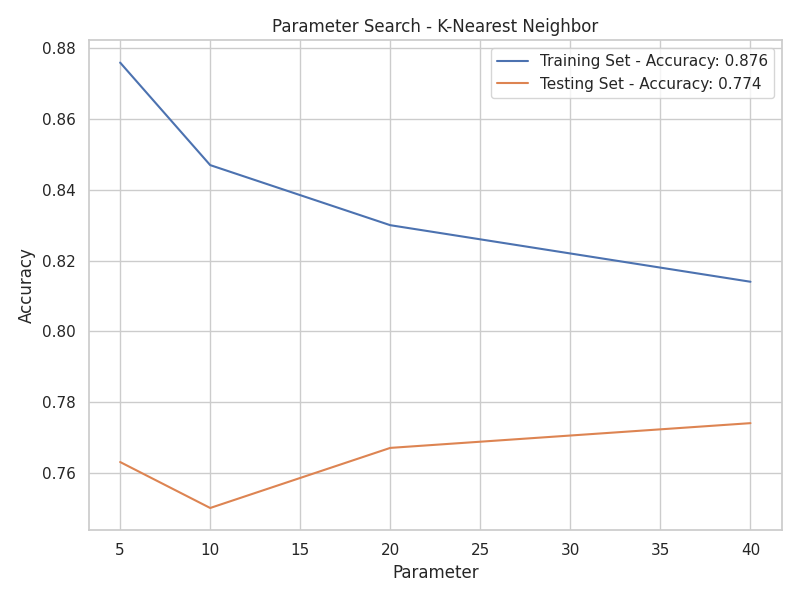
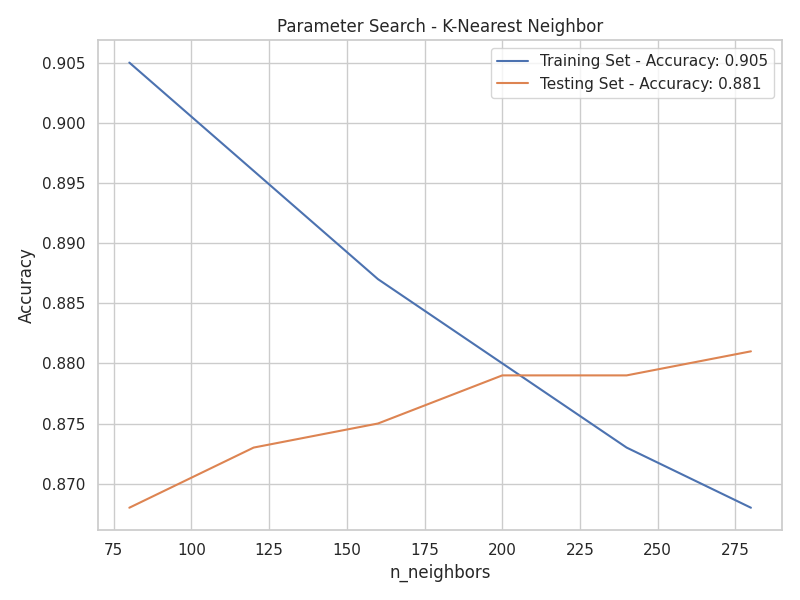
Finished implementation

diff --git a/src/run.py b/src/run.py
@@ -67,15 +67,19 @@ ds_train_X = ds_train_X.iloc[:,columns]
 # Plot selected correlation matrix
 plt.plot_heatmap(ds_train_X.corr(), 'features_selected', 'Correlation Matrix - Pearson', (8, 6))
 
-####################
-# Model Evaluation #
-####################
+# Scale features
+ds_train_X = StandardScaler().fit_transform(ds_train_X)
+ds_test_X = StandardScaler().fit_transform(ds_test_X)
+
+######################
+# Model Optimization #
+######################
 
 # Define algorithms
 algos = {
     'Naive Bayes': GaussianNB(),
     'Random Forest': RandomForestClassifier(),
-    'Logistic Regression': LogisticRegression(n_jobs=-1),
+    'Logistic Regression': LogisticRegression(n_jobs=-1, max_iter=5000, solver='lbfgs'),
     'Decision Tree Classifier': DecisionTreeClassifier(),
     'K-Nearest Neighbor': KNeighborsClassifier(n_jobs=-1)
 }
@@ -94,10 +98,10 @@ plt.plot_line(lines, 'defaults', 'Reveiver Operating Characteristic (ROC)', (8, 
 # Define params
 params = {
     #'Naive Bayes': {}, # No params for Naive Bayes
-    'Random Forest': {'max_depth': [1, 2, 3, 4]},
-    'Logistic Regression': {'C': [0.1, 0.1, 10, 100]},
-    'Decision Tree Classifier': {'max_depth': [5,10,20,40]},
-    'K-Nearest Neighbor': {'n_neighbors': [5,10,20,40]}
+    'Random Forest': {'max_depth': [1, 2, 3, 4, 5, 6, 7, 8, 9, 10]},
+    'Logistic Regression': {'C': [0.001, 0.01, 0.1, 1]},
+    'Decision Tree Classifier': {'max_depth': [1, 2, 3, 4, 5, 6, 7, 8, 9, 10]},
+    'K-Nearest Neighbor': {'n_neighbors': [80, 120, 160, 200, 240, 280]}
 }
 
 # Search parameters
@@ -107,4 +111,27 @@ for name, param in params.items():
     train_curves, test_curves = md.param_search(ds_train_X, ds_train_y, ds_test_X, ds_test_y, model, param)
     lines['Training Set'] = train_curves
     lines['Testing Set'] = test_curves
-    plt.plot_line(lines, 'params_%s' % (name), 'Parameter Search - %s' % (name), (8, 6), 'Parameter', 'Accuracy', 'Accuracy')
+    plt.plot_line(lines, 'params_%s' % (name), 'Parameter Search - %s' % (name), (8, 6), next(iter(param)), 'Accuracy', 'Accuracy')
+
+####################
+# Model Evaluation #
+####################
+
+# Define optimized algorithms
+algos = {
+    'Naive Bayes': GaussianNB(),
+    'Random Forest': RandomForestClassifier(max_depth=3),
+    'Logistic Regression': LogisticRegression(n_jobs=-1, max_iter=5000, solver='lbfgs', C=0.05),
+    'Decision Tree Classifier': DecisionTreeClassifier(max_depth=3),
+    'K-Nearest Neighbor': KNeighborsClassifier(n_jobs=-1, n_neighbors=205)
+}
+
+
+# Plot ROC using best params
+lines = {}
+for name, model in algos.items():
+    train_roc_curve, test_roc_curve = md.build_roc_curve(ds_train_X, ds_train_y, ds_test_X, ds_test_y, model)
+    lines[name] = test_roc_curve
+
+# Plot ROC using best params
+plt.plot_line(lines, 'optimized', 'Reveiver Operating Characteristic (ROC)', (8, 6), 'False Positive Rate', 'True Positive Rate', 'AUC')
